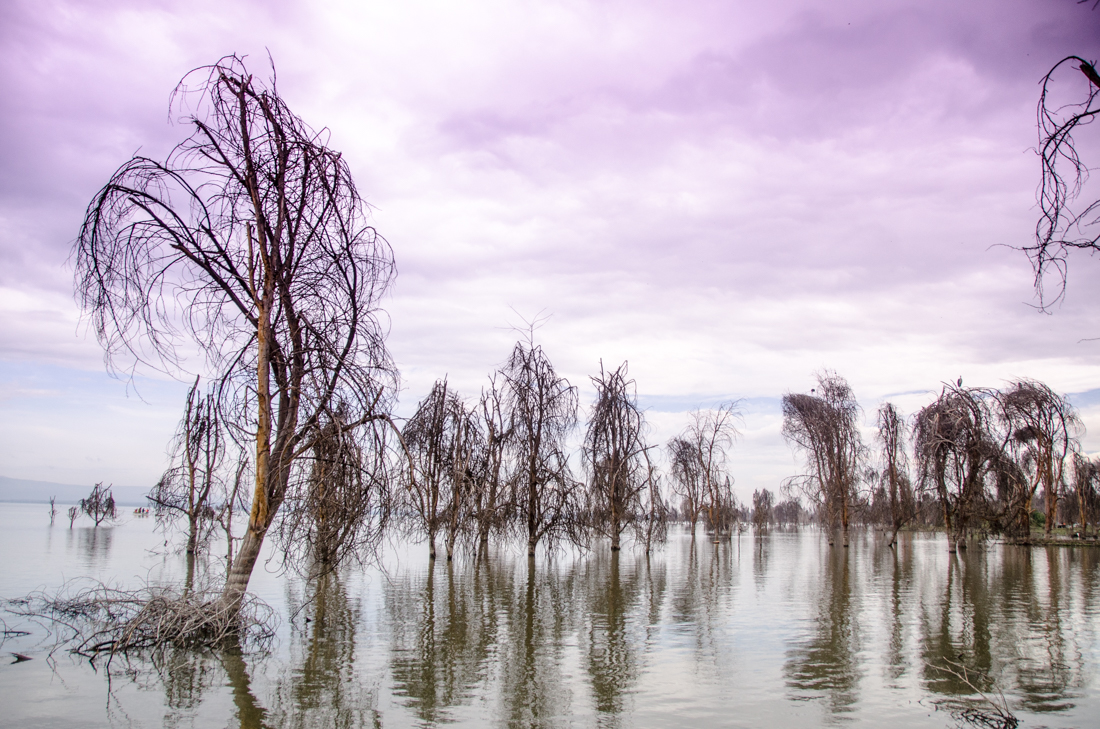
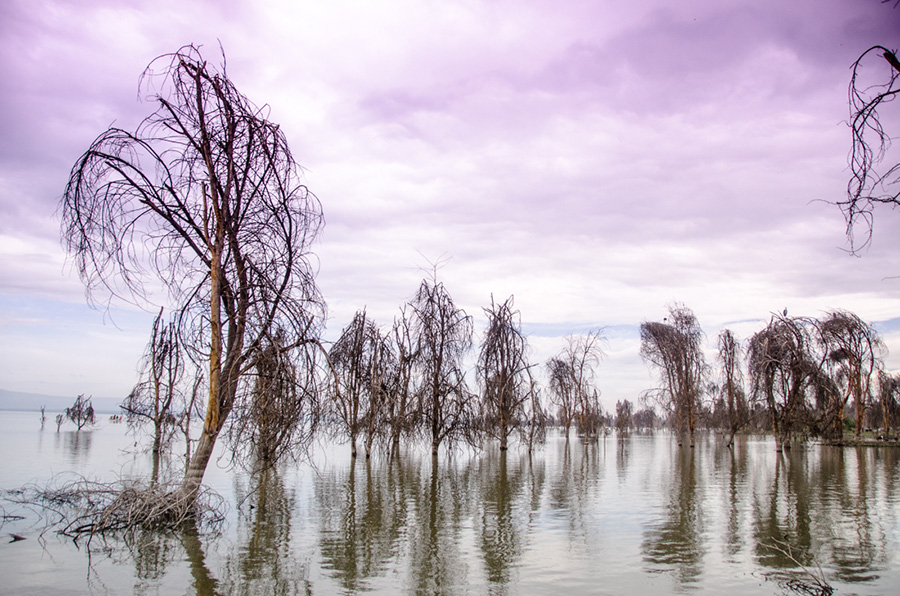
fixes bugs, resizes images

diff --git a/client/app/index.html b/client/app/index.html
@@ -35,6 +35,6 @@
   </div>
   <script src="components/jquery/dist/jquery.min.js"></script>  
   <script src="components/d3/d3.min.js"></script>
-  <script src="menu.min.js"></script>
+  <script src="menu.js"></script>
 </body>
 </html>
